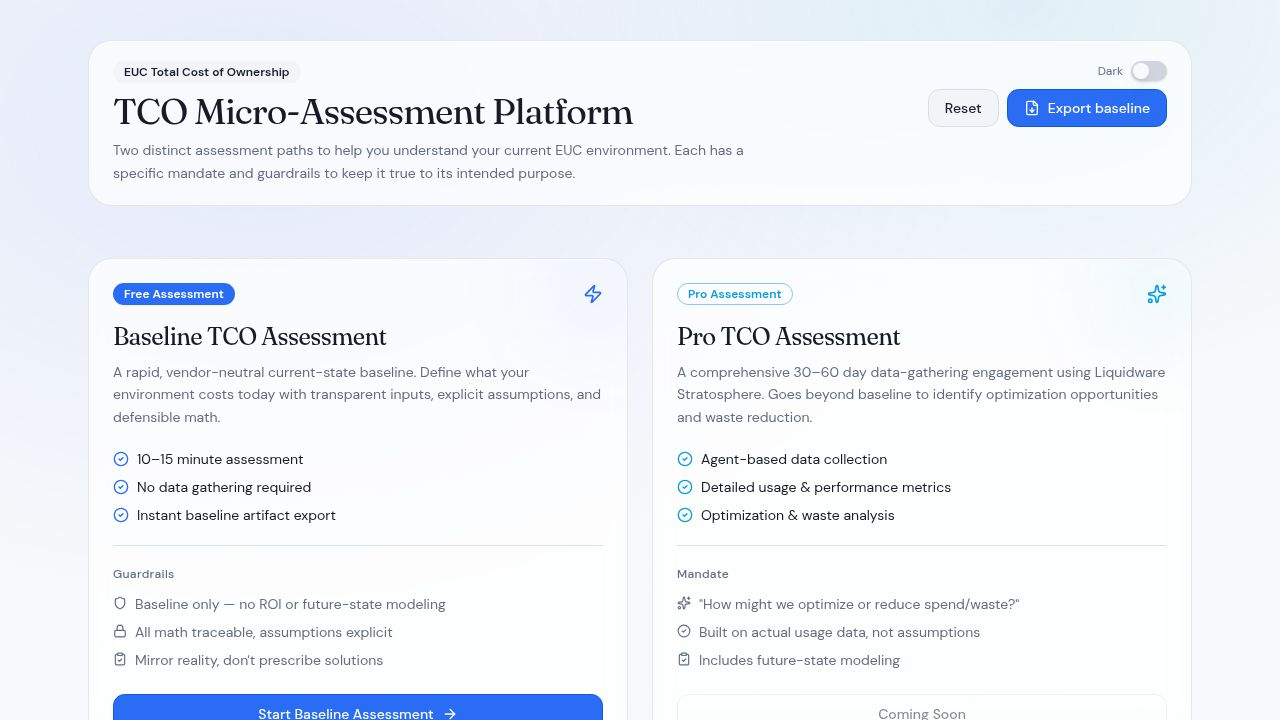
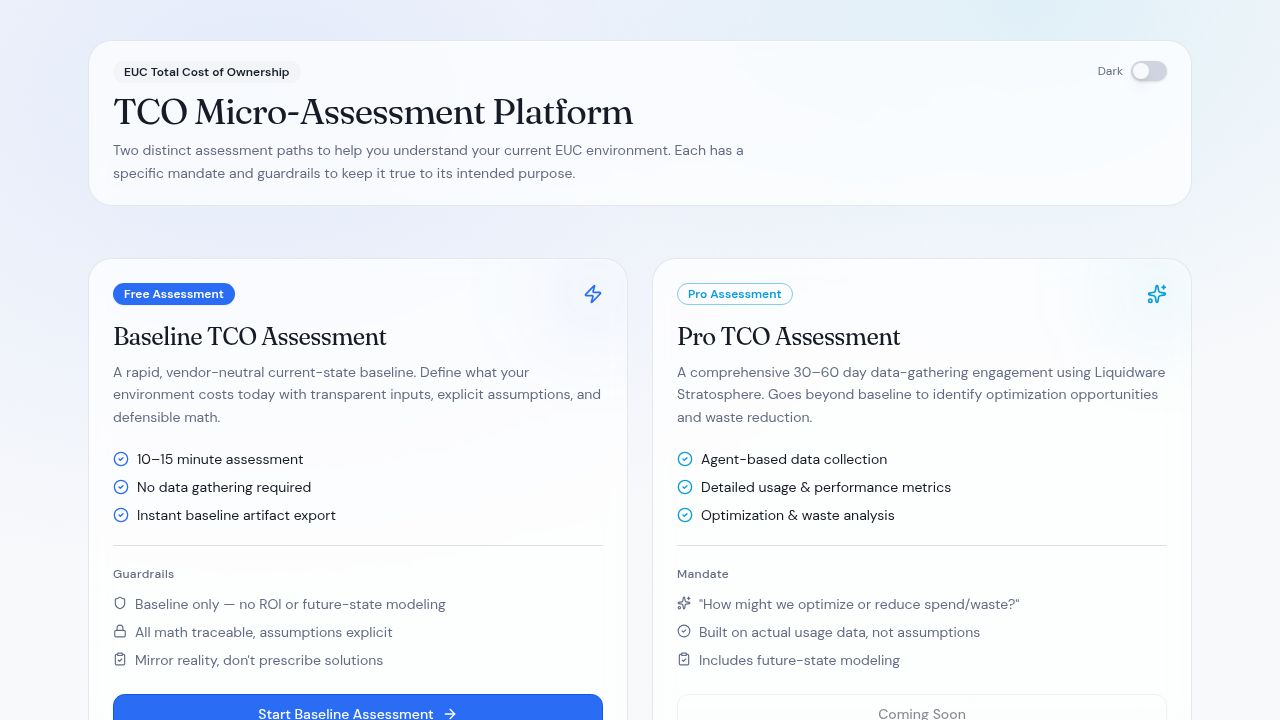
Align readiness tracker and adjust its width and appearance
Adjust the layout in `tco-baseline.tsx` to inline the readiness tracker with tabs, modify its width to be responsive, and update its styling.

Replit-Commit-Author: Agent
Replit-Commit-Session-Id: d11ac0d6-a3b1-41f5-a719-f817ac955ba6
Replit-Commit-Checkpoint-Type: full_checkpoint
Replit-Commit-Event-Id: 3af12572-3da8-43dc-8e03-0d7ac47c9cd6
Replit-Commit-Screenshot-Url: https://storage.googleapis.com/screenshot-production-us-central1/8725fbf3-ee37-4c5a-8f2c-fec3e11dc097/d11ac0d6-a3b1-41f5-a719-f817ac955ba6/eMqxiuK
Replit-Helium-Checkpoint-Created: true

Changed region(s): [[0.7188, 0.1222, 0.9375, 0.1833]]

diff --git a/client/src/pages/tco-baseline.tsx b/client/src/pages/tco-baseline.tsx
@@ -960,7 +960,7 @@ export default function TcoBaseline() {
             className="w-full"
             data-testid="tabs-root"
           >
-            <div className="flex flex-col gap-3 sm:flex-row sm:items-end sm:justify-between">
+            <div className="flex flex-col gap-3 sm:flex-row sm:items-center sm:justify-between">
               {activeTab === "home" ? null : (
                 <TabsList className="rounded-2xl" data-testid="tabs-list">
                   <TabsTrigger value="home" data-testid="tab-home">
@@ -981,18 +981,15 @@ export default function TcoBaseline() {
                 </TabsList>
               )}
 
-            </div>
-
-            {activeTab !== "home" && (
-              <div
-                className="mt-4 flex items-center justify-between gap-4 rounded-xl border border-border/50 bg-muted/20 px-4 py-2"
-                data-testid="readiness-panel"
-              >
-                <div className="flex items-center gap-3">
-                  <span className="text-xs font-medium text-muted-foreground">Readiness</span>
+              {activeTab !== "home" && (
+                <div
+                  className="flex w-full items-center gap-3 rounded-xl border border-border/50 bg-muted/20 px-3 py-2 sm:w-auto sm:min-w-[280px]"
+                  data-testid="readiness-panel"
+                >
+                  <span className="text-xs font-medium text-muted-foreground whitespace-nowrap">Readiness</span>
                   <span
                     className={cn(
-                      "text-sm font-semibold",
+                      "text-xs font-semibold whitespace-nowrap",
                       derived.readinessScore >= 100
                         ? "text-green-600 dark:text-green-400"
                         : derived.readinessScore >= 50
@@ -1007,15 +1004,15 @@ export default function TcoBaseline() {
                         ? "In progress"
                         : "Not ready"}
                   </span>
+                  <div className="flex-1 min-w-[80px]">
+                    <Progress value={derived.readinessScore} className="h-2" data-testid="progress-readiness" />
+                  </div>
                   <span className="kbd text-xs" data-testid="kbd-score">
                     {derived.readinessScore}/100
                   </span>
                 </div>
-                <div className="flex flex-1 max-w-xs items-center gap-2">
-                  <Progress value={derived.readinessScore} data-testid="progress-readiness" />
-                </div>
-              </div>
-            )}
+              )}
+            </div>
 
             <TabsContent value="home" className="mt-5" data-testid="panel-home">
               <TcoHome onStartBaseline={() => setActiveTab("inputs")} onStartTour={handleStartTour} />
